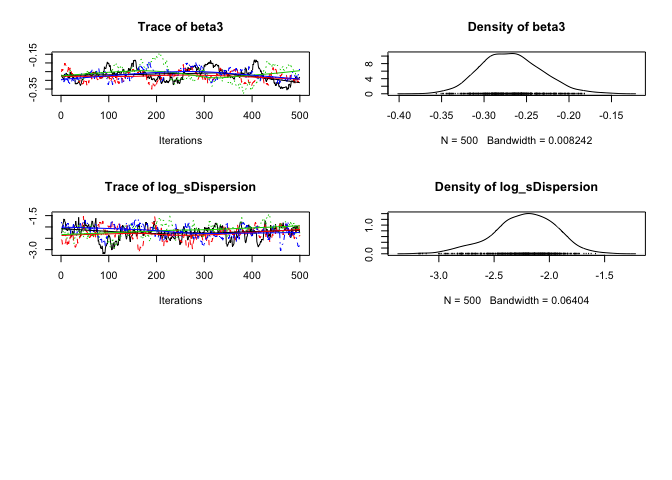
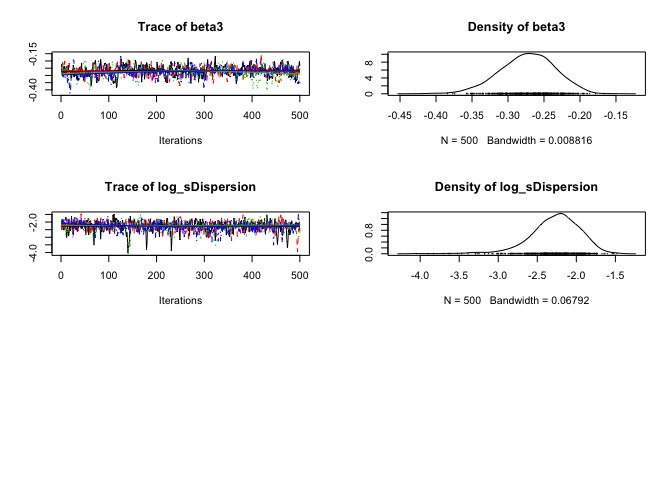
update roxygen2

diff --git a/README.md b/README.md
@@ -61,22 +61,34 @@ analysis <- analyse(model, data = data)
 #> # A tibble: 1 × 6
 #>       n     K nsims minutes  rhat converged
 #>   <int> <int> <int>   <int> <dbl>     <lgl>
-#> 1    40     5  4000       0  1.04      TRUE
+#> 1    40     5  4000       0  1.09      TRUE
 analysis <- reanalyse(analysis, rhat = 1.05)
 #> # A tibble: 1 × 6
 #>       n     K nsims minutes  rhat converged
 #>   <int> <int> <int>   <int> <dbl>     <lgl>
-#> 1    40     5  4000       0  1.04      TRUE
+#> 1    40     5  8000       0  1.07      TRUE
+#> # A tibble: 1 × 6
+#>       n     K nsims minutes  rhat converged
+#>   <int> <int> <int>   <int> <dbl>     <lgl>
+#> 1    40     5 16000       0  1.07      TRUE
+#> # A tibble: 1 × 6
+#>       n     K nsims minutes  rhat converged
+#>   <int> <int> <int>   <int> <dbl>     <lgl>
+#> 1    40     5 32000       0  1.06      TRUE
+#> # A tibble: 1 × 6
+#>       n     K nsims minutes  rhat converged
+#>   <int> <int> <int>   <int> <dbl>     <lgl>
+#> 1    40     5 64000       0  1.01      TRUE
 
 coef(analysis)
 #> # A tibble: 5 × 7
-#>              term   estimate         sd      zscore       lower
-#> *      <S3: term>      <dbl>      <dbl>       <dbl>       <dbl>
-#> 1           alpha  4.2108968 0.03754444 112.1351708  4.13063831
-#> 2           beta1  1.1879304 0.06904928  17.1637071  1.04868095
-#> 3           beta2  0.0229350 0.03068579   0.7671404 -0.03188646
-#> 4           beta3 -0.2698482 0.03555897  -7.5357232 -0.33334674
-#> 5 log_sDispersion -2.2119031 0.28267473  -7.8806972 -2.83598676
+#>              term    estimate         sd      zscore       lower
+#> *      <S3: term>       <dbl>      <dbl>       <dbl>       <dbl>
+#> 1           alpha  4.21501521 0.04084559 103.1631669  4.12922931
+#> 2           beta1  1.19313189 0.07492301  15.9615547  1.06296442
+#> 3           beta2  0.01819087 0.03115316   0.6180423 -0.03981811
+#> 4           beta3 -0.27187049 0.03803186  -7.1841374 -0.35147829
+#> 5 log_sDispersion -2.24259191 0.32804517  -6.9312755 -3.02798423
 #> # ... with 2 more variables: upper <dbl>, pvalue <dbl>
 
 plot(analysis)
